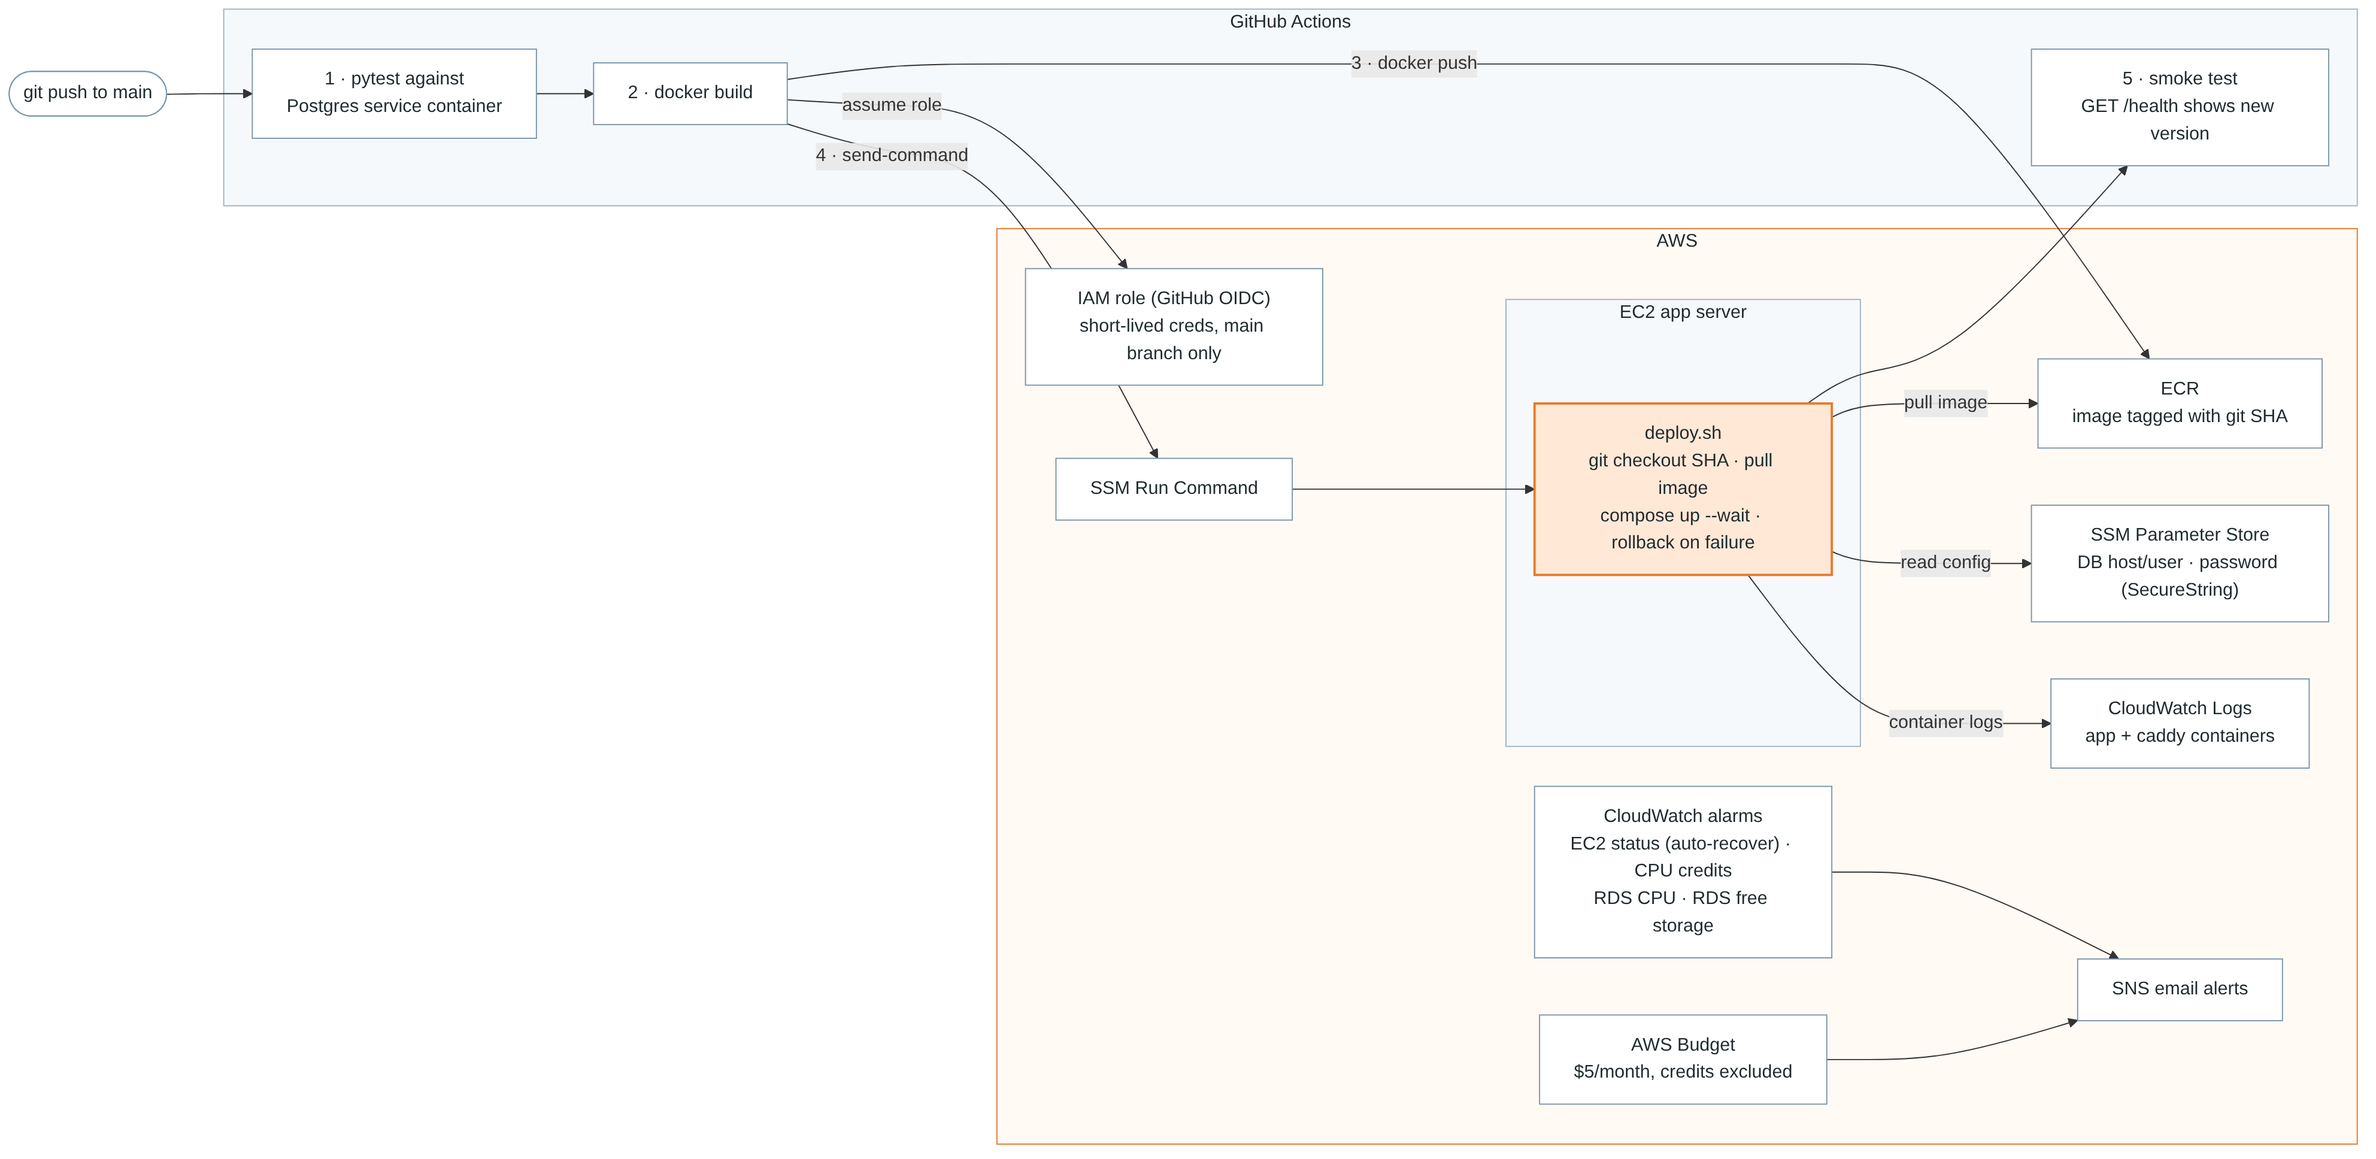
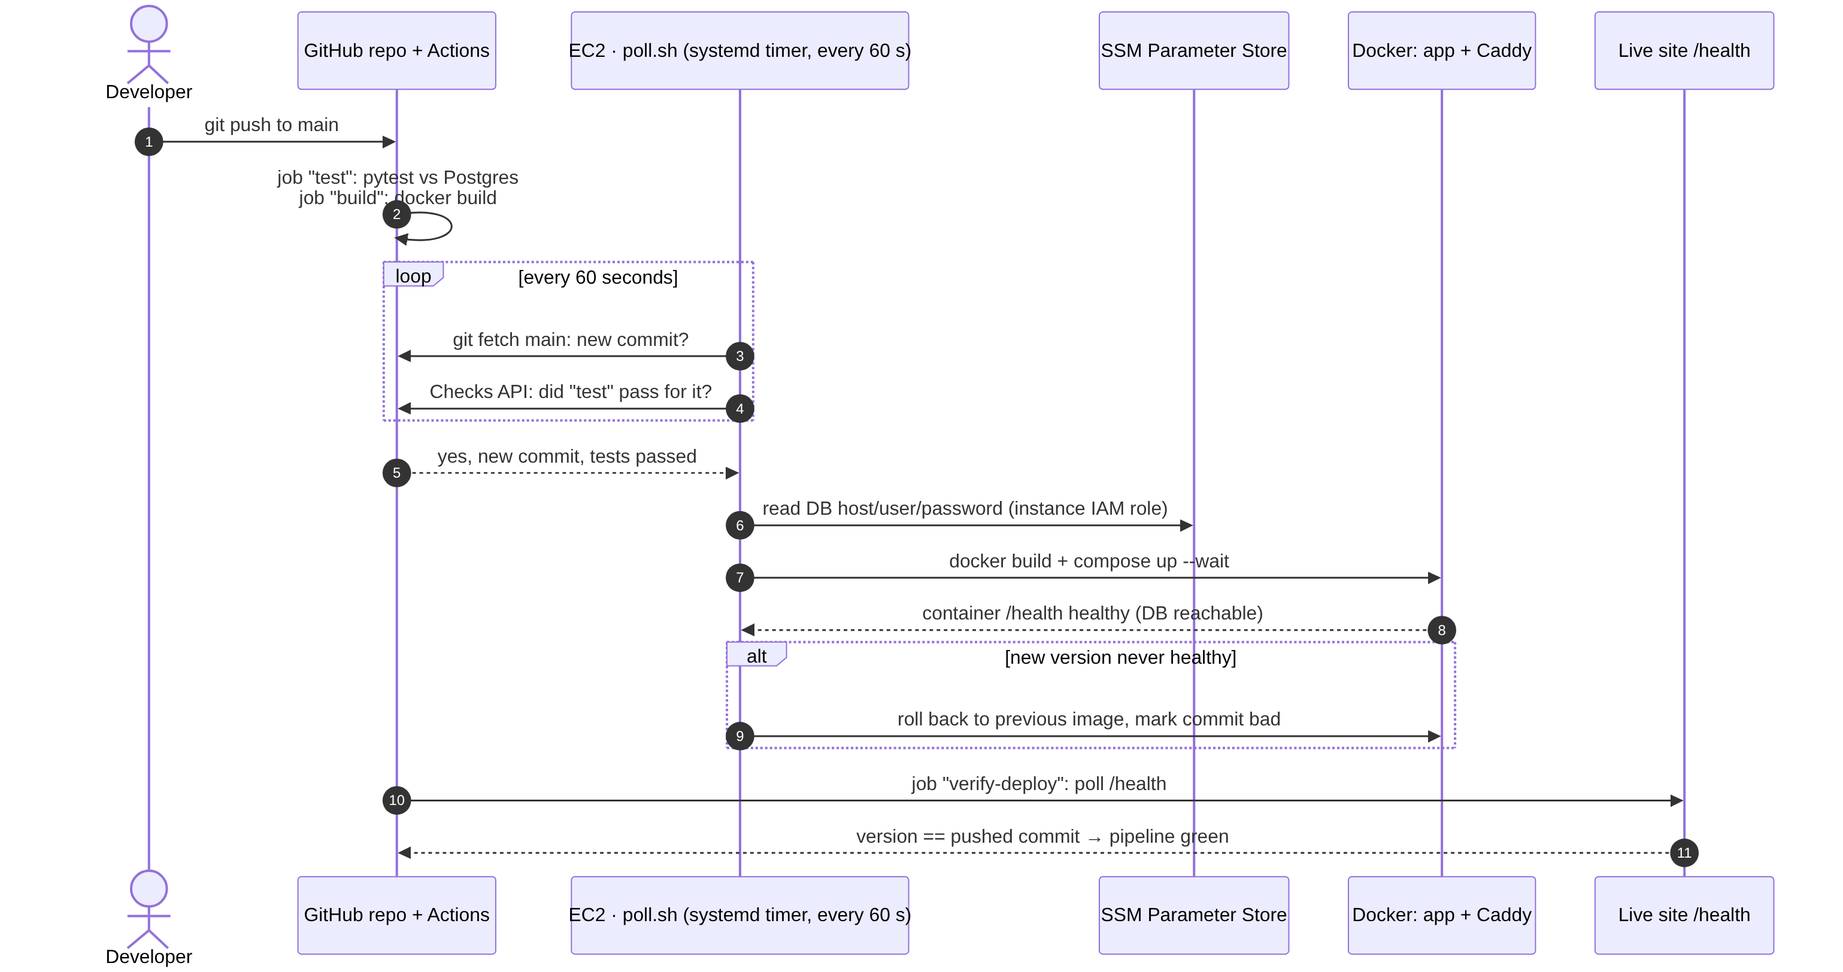
Docs: pull-based deploy diagram, live link, troubleshooting write-up
Claude-Session: https://claude.ai/code/session_01HqhuKN4WRCtcGfsopndHER

diff --git a/README.md b/README.md
@@ -1,11 +1,11 @@
 # BrightPath To-Do: a small app, deployed properly on AWS
 
-A to-do list (Flask + PostgreSQL) running on a Linux EC2 instance, with the database on Amazon RDS. The app is intentionally tiny; the point of the repo is **how it is deployed and run**: infrastructure as code, keyless CI/CD, HTTPS, least-privilege networking, monitoring and a hard look at cost.
+A to-do list (Flask + PostgreSQL) running on a Linux EC2 instance, with the database on Amazon RDS. The app is intentionally tiny; the point of the repo is **how it is deployed and run**: infrastructure as code, pull-based CI/CD with no AWS keys outside AWS, HTTPS, least-privilege networking, monitoring and a hard look at cost.
 
 | | |
 |---|---|
-| **Live app** | `https://<elastic-ip-with-dashes>.sslip.io` ← *replace with the `app_url` Terraform prints* |
-| **Health check** | `<live app>/health` |
+| **Live app** | https://3-131-76-41.sslip.io |
+| **Health check** | https://3-131-76-41.sslip.io/health |
 | **Demo video** | *link* |
 
 ---
@@ -46,15 +46,16 @@ It returns **200** when healthy and **503** when the database is unreachable (`"
 
 ![Deploy flow](docs/deploy-flow.png)
 
-On every push to `main`, GitHub Actions:
+On every push to `main`:
 
-1. runs the tests against a real Postgres service container
-2. builds the Docker image
-3. pushes it to **ECR**, tagged with the git SHA (tags are immutable)
-4. calls **SSM Run Command** on the instance. `deploy/deploy.sh` checks out that SHA, reads config from **SSM Parameter Store**, pulls the image, runs `docker compose up --wait` (which waits for the container health check) and **rolls back** to the previous image if the new one never becomes healthy
-5. smoke-tests the public `/health` and checks that it reports the *new* version
+1. **GitHub Actions** runs the tests against a real Postgres service container (job `test`) and builds the Docker image.
+2. On the server, a **systemd timer** runs [`deploy/poll.sh`](deploy/poll.sh) every minute. It `git fetch`es `main`, and when there is a new commit **whose `test` check passed**, it checks it out and runs [`deploy/deploy.sh`](deploy/deploy.sh).
+3. `deploy.sh` reads config and the DB password from **SSM Parameter Store**, builds the image for that commit, and runs `docker compose up --wait`, which waits for the container's `/health` check. If the new version never becomes healthy, it **rolls back** to the previous image and marks the commit as bad so it isn't retried.
+4. Back in GitHub Actions, the `verify-deploy` job polls the public `/health` until it reports the *new* commit, so the pipeline goes red if the deploy didn't land.
 
-AWS access comes from **GitHub OIDC**: the workflow gets 1-hour credentials for a role that only trusts `main` of this repo. There are no AWS keys in GitHub and no SSH keys anywhere.
+**Finding out when something breaks:** CloudWatch alarms (EC2 status checks with automatic recovery, CPU credits, RDS CPU and free storage) and the AWS Budget email through SNS; container logs go to CloudWatch Logs (`/todo/app`); and a GitHub Actions uptime check hits `/health` from outside every 30 minutes.
+
+No AWS credentials exist outside AWS: the instance uses its IAM role, and GitHub has nothing it could leak. (This design came out of a real problem; see [What went wrong](#what-went-wrong-while-building-and-how-i-found-the-cause).)
 
 Diagram sources: [`docs/architecture.mmd`](docs/architecture.mmd), [`docs/deploy-flow.mmd`](docs/deploy-flow.mmd) (Mermaid).
 
@@ -68,15 +69,15 @@ Diagram sources: [`docs/architecture.mmd`](docs/architecture.mmd), [`docs/deploy
 | **Linux distro** | Amazon Linux 2023 | Ubuntu 24.04 | AL2023 ships with the SSM agent and AWS CLI, is tuned for EC2 and is supported by AWS. Ubuntu would work just as well; AL2023 meant less bootstrap code. |
 | **Database** | RDS PostgreSQL 16 `db.t3.micro` | Postgres in a container on the same EC2; DynamoDB | Managed backups, patching, encryption and a private endpoint. Running Postgres on the same 1 GB box would tie the data to the server's lifecycle and compete for RAM. DynamoDB is always-free, but relational SQL is closer to a typical SaaS backend and easier to reason about. |
 | **Traffic in** | Elastic IP → Caddy on the instance | Application Load Balancer + ACM; CloudFront | With one instance an ALB adds cost on new accounts and needs a real domain for ACM. Caddy gives automatic HTTPS for $0. The ALB is the first thing I'd add for real customers (below). |
-| **Packaging** | Docker + Compose | systemd + virtualenv | The same image runs in CI, locally and in prod, and rollback is just "run the previous tag". |
-| **Deploy** | GitHub Actions → ECR → SSM Run Command | SSH from CI with a stored key; CodeDeploy | No inbound port 22, no long-lived secrets, and the output is audited in SSM. CodeDeploy would also work but needs more moving parts for a single host. |
+| **Packaging** | Docker + Compose | systemd + virtualenv | The same Dockerfile runs in CI, locally and in prod, and rollback is just "run the previous image". |
+| **Deploy** | Pull-based: GitHub Actions tests, the server pulls and deploys | Push from Actions via OIDC → ECR → SSM (my first design, blocked by the account's SCP); IAM user access keys in GitHub; SSH from CI | No inbound port 22 and no AWS credentials in GitHub. Long-lived access keys would have worked around the SCP, but they're exactly the kind of secret the brief says not to spread around. Trade-off: up to ~1 minute of deploy latency, and the server builds the image itself (fine for a small app). |
 | **Secrets** | SSM Parameter Store (SecureString) | Secrets Manager | Parameter Store standard tier is free; Secrets Manager costs $0.40/secret/month. I'd switch for automatic rotation. |
 | **IaC** | Terraform | CloudFormation; clicking in the console | Everything is reviewable, repeatable and removable with `terraform destroy`. |
 
 ### Nice-to-haves I picked, and why
 
 - **Terraform (IaC)**: the whole environment is about 40 resources. Writing it down means I can rebuild it from scratch, reviewers can see every security group rule, and teardown is guaranteed (no forgotten resources = no surprise bill).
-- **CI/CD with GitHub Actions**: deploying should be boring and identical every time. Every push is tested, and a broken build can never reach the server because the deploy waits for the health check and rolls back.
+- **CI/CD (GitHub Actions + pull-based deploy)**: deploying should be boring and identical every time. Every push is tested; the server only deploys commits whose tests passed; a broken release can't stay live because the deploy waits for the health check and rolls back; and the pipeline itself confirms the new version is live.
 - *Small extras because they were nearly free:* **HTTPS** (Caddy + sslip.io) and **basic monitoring** (CloudWatch alarms + SNS email, an AWS Budget, container logs in CloudWatch, and an outside-in uptime check of `/health` from GitHub every 30 minutes).
 
 ---
@@ -86,7 +87,7 @@ Diagram sources: [`docs/architecture.mmd`](docs/architecture.mmd), [`docs/deploy
 - **No secrets in the repo.** The DB password is generated by Terraform, stored as an SSM SecureString, and written on the server to a root-only (`600`) env file at deploy time. `*.tfstate`, `*.tfvars` and env files are git-ignored.
 - **Only the ports the app needs.** Internet → EC2: 80 and 443. EC2 → RDS: 5432, from the web security group only. **No SSH** (no key pair, no port 22); shell access goes through SSM Session Manager, which is IAM-authenticated and logged.
 - **Database is private.** It sits in subnets with no internet route, `publicly_accessible = false`, storage is encrypted, and connections use TLS (`sslmode=require`; RDS enforces `rds.force_ssl`).
-- **Least-privilege IAM.** The instance role can read only `/todo/*` parameters, pull only this ECR repo and write only to its log group. The GitHub role can push only to this repo and run commands only on this instance, and only from `main`.
+- **Least-privilege IAM.** The instance role can read only `/todo/*` parameters (plus SSM agent basics) and write only to its own log group. GitHub has no AWS access at all.
 - **Hardened instance.** IMDSv2 required (hop limit 1, so containers can't reach instance credentials) and an encrypted EBS root volume.
 - **App level.** Parameterised SQL, auto-escaped templates (covered by a test), input length limits, a non-root container, security headers from Caddy, and health output that never leaks connection strings.
 
@@ -98,13 +99,12 @@ Diagram sources: [`docs/architecture.mmd`](docs/architecture.mmd), [`docs/deploy
 | EBS 16 GB gp3 | 30 GB | |
 | RDS `db.t3.micro`, 20 GB gp2, single-AZ | 750 h + 20 GB | Backup retention 1 day; storage autoscaling off |
 | Public IPv4 (Elastic IP) | 750 h/month on legacy Free Tier; covered by credits on new accounts | About $3.60/month at list price, the one item to watch |
-| ECR | 500 MB | Lifecycle policy keeps only the last 5 images |
 | SSM Parameter Store (standard), Run Command, Session Manager | Free | |
 | CloudWatch | 10 alarms, 5 GB logs | 5 alarms; logs kept 7 days |
 | SNS email, AWS Budgets | Free (first 2 budgets) | |
 | **Deliberately avoided** | | NAT Gateway (about $32/month), ALB, Multi-AZ RDS, Secrets Manager, Performance Insights, interface VPC endpoints |
 
-Guardrails: an **AWS Budget** ($5/month) emails at 20% of actual spend and at 100% forecast. Credits are *excluded*, so it reflects real usage even when sign-up credits would hide it. `terraform destroy` removes everything, including the ECR images and the database (no final snapshot).
+Guardrails: an **AWS Budget** ($5/month) emails at 20% of actual spend and at 100% forecast. Credits are *excluded*, so it reflects real usage even when sign-up credits would hide it. `terraform destroy` removes everything, including the database (no final snapshot).
 
 ---
 
@@ -126,29 +126,28 @@ TEST_DATABASE_URL=postgresql://todo:localdev@localhost:5432/todo pytest -v app/t
 
 ## Deploy it to AWS
 
-**Prerequisites:** an AWS account, the AWS CLI logged in locally with an admin profile (`aws configure` / `aws sso login`; credentials stay on your machine), Terraform ≥ 1.6, and this repo pushed to GitHub as a **public** repo (the server clones it on first boot).
+**Prerequisites:** an AWS account and this repo on GitHub as a **public** repo (the server clones it). No local AWS keys are needed: provisioning runs in **AWS CloudShell**, which uses your console login.
 
-```bash
-# 1. Provision (about 10 minutes, mostly RDS)
-cd infra
-cp terraform.tfvars.example terraform.tfvars   # set github_repo and alert_email
-terraform init
-terraform apply
-```
-
+1. Open CloudShell in the console (I used `us-east-2`; new Free plan accounts are limited to one region) and run:
+   ```bash
+   bash <(curl -fsSL https://raw.githubusercontent.com/<owner>/<repo>/main/infra/cloudshell-apply.sh) <owner>/<repo> <alert-email>
+   ```
+   It installs Terraform, clones the repo, writes `terraform.tfvars` and runs `terraform apply` (about 10 minutes, mostly RDS). State stays in your CloudShell home directory.
 2. **Confirm the SNS subscription** email AWS sends you, so alarms reach you.
-3. In GitHub → *Settings → Secrets and variables → Actions → **Variables***, add the five values from `terraform output github_variables`: `AWS_REGION`, `AWS_ROLE_ARN`, `ECR_REPOSITORY_URL`, `INSTANCE_ID`, `APP_URL`. These are identifiers, not secrets.
-4. Deploy: push to `main`, or *Actions → CI/CD → Run workflow*.
-5. Open `terraform output app_url`. The first HTTPS request can take a few seconds while Caddy obtains the certificate.
+3. In GitHub → *Settings → Secrets and variables → Actions → Variables*, add `APP_URL` = `terraform output app_url` (used by `verify-deploy` and the uptime check).
+4. That's it. On first boot the instance installs the deploy timer and deploys the latest passing commit. After that, every push to `main` goes live within about a minute of its tests passing.
 
-Useful commands:
+Prefer running Terraform locally? `cd infra && cp terraform.tfvars.example terraform.tfvars && terraform init && terraform apply` with any admin AWS profile.
+
+Useful commands (CloudShell):
 
 ```bash
-terraform output shell_command        # shell on the box via SSM, no SSH
-aws logs tail /todo/app --follow      # app + caddy logs
+aws ssm start-session --target <instance-id>              # shell on the box, no SSH
+aws logs tail /todo/app --follow                          # app + caddy logs
+# on the box: journalctl -u todo-autodeploy -f            # deploy log
 ```
 
-**Teardown:** `cd infra && terraform destroy`.
+**Teardown:** `cd ~/<repo>/infra && TF_DATA_DIR=/tmp/tfdata terraform init && TF_DATA_DIR=/tmp/tfdata terraform destroy`.
 
 ## Repo layout
 
@@ -157,16 +156,31 @@ app/                 Flask app, templates, tests
 Dockerfile           non-root image with a /health HEALTHCHECK
 docker-compose.yml   prod stack on EC2: app + Caddy, logs to CloudWatch
 docker-compose.dev.yml  local stack: app + throwaway Postgres
-deploy/deploy.sh     runs on the instance via SSM: config → pull → up --wait → rollback
+deploy/poll.sh       on the instance, every minute: new commit on main + CI passed? → deploy
+deploy/deploy.sh     config from SSM → docker build → up --wait → rollback if unhealthy
+deploy/systemd/      the timer + service that run poll.sh
 deploy/Caddyfile     HTTPS reverse proxy + security headers
-infra/               Terraform: VPC, SGs, EC2, RDS, IAM/OIDC, ECR, SSM, alarms, budget
-.github/workflows/   ci-cd.yml (test/build/deploy/smoke test), uptime.yml
+infra/               Terraform: VPC, SGs, EC2, RDS, IAM, SSM, alarms, budget (+ cloudshell-apply.sh)
+.github/workflows/   ci-cd.yml (test → build → verify-deploy), uptime.yml
 docs/                architecture diagrams (Mermaid sources + PNG)
 ```
 
 ## What went wrong while building, and how I found the cause
 
-> *Fill in with what actually happened when you deployed. See `docs/demo-script.md` for how to tell it. Structure: symptom → what I checked → real cause → fix → what I'd do to catch it earlier.*
+**Symptom.** My first `terraform apply` created about 40 resources, then failed on one:
+
+```
+Error: creating IAM OIDC Provider: ... AccessDenied: ... is not authorized to perform:
+iam:CreateOpenIDConnectProvider ... with an explicit deny in a service control policy
+```
+
+**What I checked.** I was signed in with full admin access, so this wasn't a missing IAM permission on my role. The key words were *"explicit deny in a service control policy"*. An SCP sits above IAM at the AWS Organizations level, and an explicit deny there beats any Allow. A brand-new account shouldn't have one, so I looked at how the account was set up: new accounts on AWS's **Free plan** (created after July 2025) run inside an AWS-managed organization. It restricts some actions and also limits you to one region, which is why CloudShell refused `us-west-2` earlier and I moved to `us-east-2`.
+
+**Real cause.** The Free plan's SCP blocks creating an IAM OIDC identity provider, which is exactly what GitHub Actions needs to get short-lived AWS credentials. So my push-based pipeline (Actions → ECR → SSM Run Command) could never authenticate to AWS in this account, however I wrote the IAM policies.
+
+**Fix.** I had three options: upgrade the account to the paid plan, create an IAM user and put long-lived access keys in GitHub, or **flip the direction of deployment**. I chose the third. The instance already has an IAM role, so it pulls from GitHub, only deploys commits whose tests passed, and keeps the health-check rollback. GitHub never holds AWS credentials, which is a better security posture than the keys workaround. I removed ECR and the GitHub role from Terraform, and the second `apply` converged cleanly.
+
+**What I'd do to catch it earlier.** Check the account's guardrails first (`aws organizations describe-organization`, the Free plan's supported-services list) before designing around a feature, and apply the identity and access pieces (`-target`) before the slow resources like RDS, so a blocker shows up in seconds instead of after an 8-minute database build.
 
 ## What I'd change before real customers used it
 

diff --git a/docs/demo-script.md b/docs/demo-script.md
@@ -24,7 +24,7 @@ Then one sentence per choice, each with the alternative:
 - **RDS Postgres:** managed backups, patching, encryption, private endpoint. *Considered Postgres in a container on the same box: cheaper, but data tied to one 1 GB server.*
 - **Traffic:** Elastic IP + Caddy for free HTTPS. *Considered an ALB with ACM, which is what I'd do with real traffic, but for one instance it adds cost and needs a domain.*
 
-Flip to `docs/deploy-flow.png` (≈ 20 s): push → tests → image to ECR → SSM Run Command → `compose up --wait` with automatic rollback → smoke test on `/health`. "No SSH and no AWS keys in GitHub; it uses OIDC."
+Flip to `docs/deploy-flow.png` (≈ 25 s): "Every push runs the tests in GitHub Actions. The server checks GitHub every minute, and when there's a new commit whose tests passed, it builds it, waits for the health check, and rolls back if it fails. Then Actions confirms the live `/health` shows the new commit. GitHub never holds any AWS credentials." *Considered: pushing from Actions with OIDC, which was my original design (see section 4).*
 
 ## 3. Security and cost (≈ 45 s)
 
@@ -36,18 +36,15 @@ Show the EC2 security group (80/443 only) and the RDS SG (5432 from the web SG o
 
 ## 4. Something that went wrong (≈ 40 s)
 
-**Use your own real incident.** Structure: *symptom → what I checked → actual cause → fix → how I'd catch it sooner.* Reviewers specifically want to hear that you found the root cause rather than working around it.
+This really happened while building it (full write-up in the README):
 
-Things that commonly bite on this exact setup, so you'll recognise them if they happen (only talk about one if it actually happened to you):
+- **Symptom:** the first `terraform apply` built about 40 resources, then failed on one: `AccessDenied ... iam:CreateOpenIDConnectProvider ... with an explicit deny in a service control policy`.
+- **Digging in:** "I was an admin, so it wasn't my IAM permissions. 'Explicit deny in a *service control policy*' means AWS Organizations. New Free plan accounts run inside an AWS-managed organization with guardrails. That's also why CloudShell had refused my original region, us-west-2."
+- **Root cause:** the Free plan blocks creating the OIDC identity provider that GitHub Actions needs to get AWS credentials, so my push-based pipeline could never authenticate, however I wrote the policies.
+- **Fix, not a workaround:** "I could have put long-lived IAM keys in GitHub, but that's the thing I was trying to avoid. So I flipped the direction: the server, which already has an IAM role, pulls from GitHub, and only deploys commits whose tests passed."
+- **Lesson:** check account guardrails first, and apply the identity pieces before slow resources like RDS, so a blocker shows up in seconds, not after an 8-minute database build.
 
-| Symptom | Where to look | Typical root cause |
-|---|---|---|
-| `/health` → 503, `database.error: "PoolTimeout"` | `aws logs tail /todo/app` | DB SG not referencing the web SG, wrong host in SSM, or `sslmode` mismatch (RDS PG 16 forces TLS) |
-| Site loads on `http://IP` but HTTPS fails | Caddy logs in the `/todo/app` log group | Port 80 blocked (Let's Encrypt HTTP-01 challenge needs it) or rate limits |
-| Deploy step: `AccessDenied` on `AssumeRoleWithWebIdentity` | Actions log | `github_repo` case/typo doesn't match the OIDC `sub` claim, or the workflow isn't running on `main` |
-| SSM command stuck in `Pending` / instance not in Fleet Manager | Systems Manager → Fleet Manager | Instance had no internet yet (EIP not attached) or the role lacked `AmazonSSMManagedInstanceCore` |
-| `terraform apply`: `FreeTierRestrictionError` on RDS | Terraform output | Backup retention > 1 day on a Free Tier account |
-| Deploy rolled back | SSM command output shows the last app logs | New image failing its health check (that's the safety net working) |
+Optional extra to show live: a deploy rolling back. Push a commit that breaks `/health`, show the server keeping the old version, then revert.
 
 ## 5. Before real customers (≈ 30 s)
 
